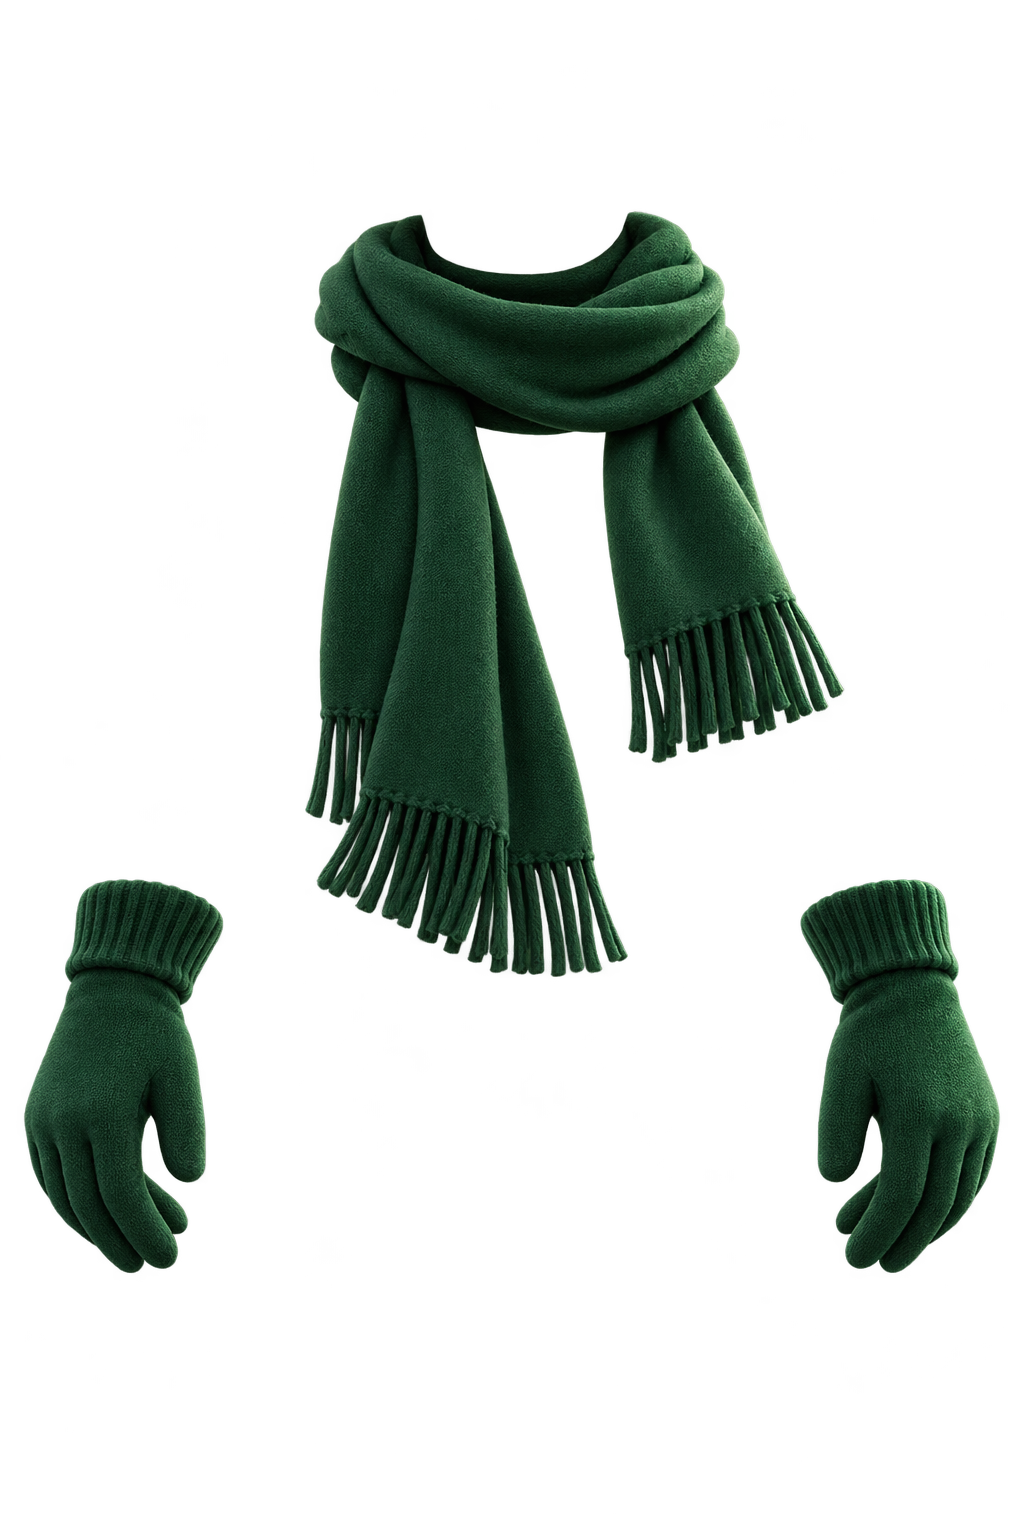
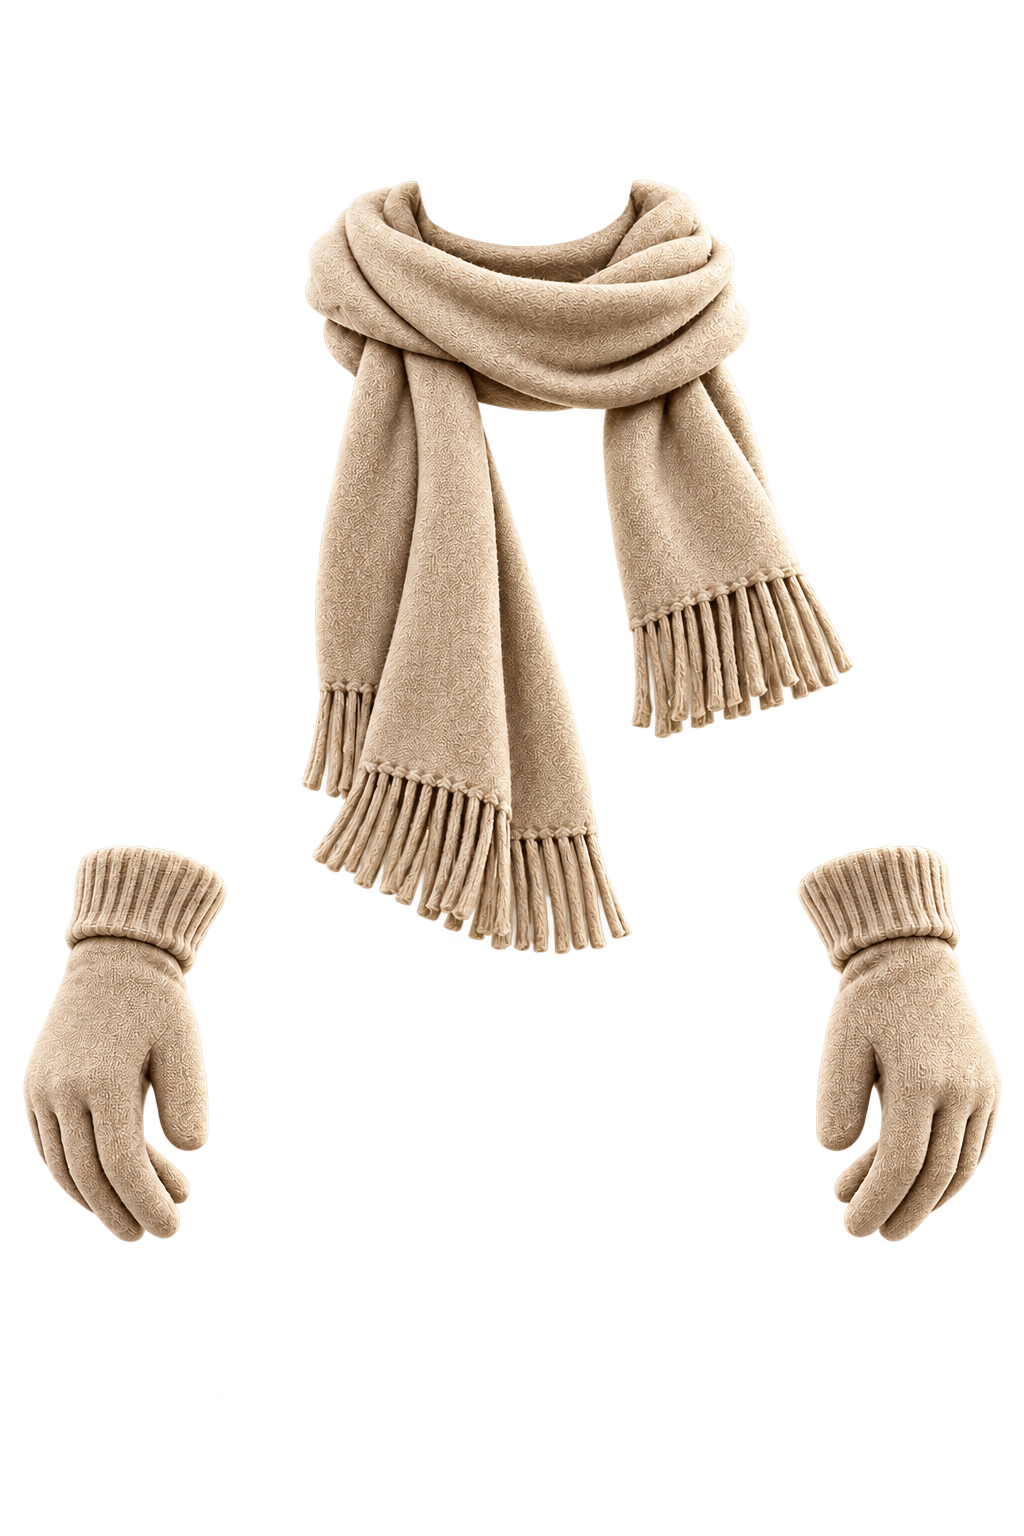
Recolor cold weather accessories beige

Changed region(s): [[0.2812, 0.0938, 0.8438, 0.6562], [0.7812, 0.5312, 1.0, 0.8438], [0.0, 0.5312, 0.2188, 0.8438]]

diff --git a/verification.md b/verification.md
@@ -21,7 +21,8 @@ Release verification for Outfit Forecast. Last updated October
   calendar dates matching their forecast records.
 - Cold-weather accessory review: the scarf/gloves layer passed a dedicated
   visual check at 42% scale with a 6% downward adjustment, clearing the face
-  while retaining neck and hand alignment.
+  while retaining neck and hand alignment. Its final warm oatmeal-beige color
+  also passed a composited transparency and alignment review.
 - Production manifest: **36 declared, 36 unique, 0 missing**.
 - Credential-pattern scan: **no matches** outside excluded artwork/test output.
 - Live Open-Meteo smoke checks: complete seven-day forecasts returned for

diff --git a/plan.md b/plan.md
@@ -404,6 +404,10 @@ Record material plan changes and why they were made.
   scale and moved it 6% downward on the shared character stage. A dedicated
   cold-outfit preview confirmed that the scarf clears the face and the gloves
   remain aligned with the hands; the 46/46 browser suite passed again.
+- October 2, 2026: Recolored the cold-weather scarf and gloves from dark green
+  to warm oatmeal beige while preserving the transparent layer, textile detail,
+  approved 42% scale, and character alignment. The composited preview passed
+  visual review without edge or placement regressions.
 
 ## Saving transcripts
 
